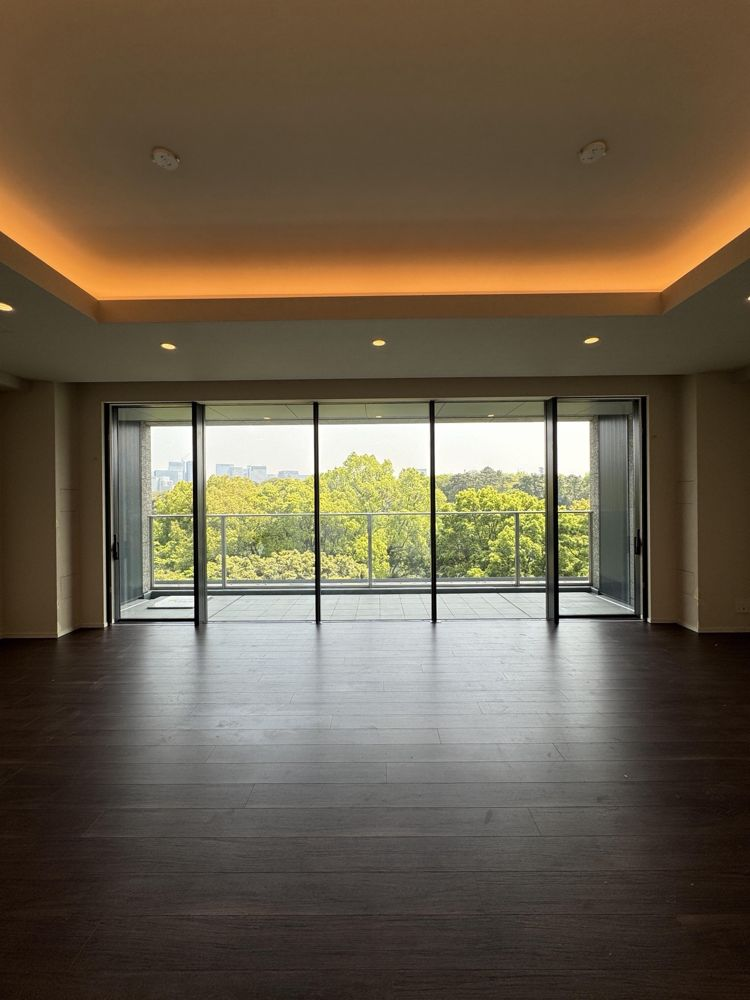
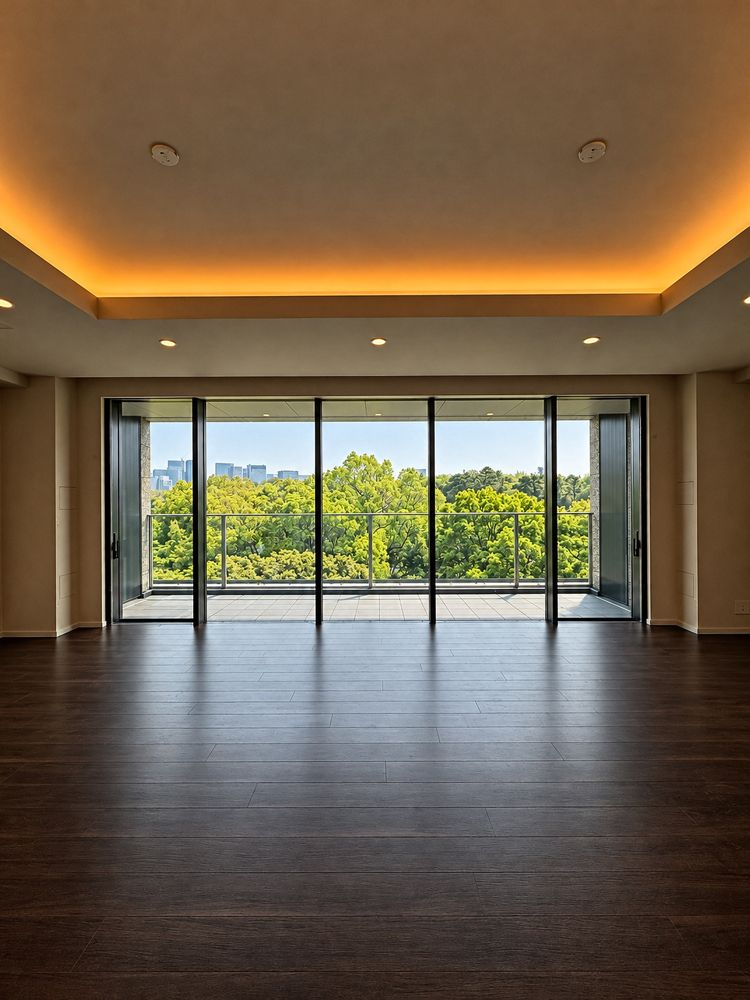
Hero: exterior view from the regenerated photo (clear sky), cleaner inpainting
Claude-Session: https://claude.ai/code/session_01LCqRGCmkTvX3q8iQxDLF2M

diff --git a/site/hero3d.js b/site/hero3d.js
@@ -8,7 +8,7 @@ try { renderer = new THREE.WebGLRenderer({ canvas: cv, antialias: true, alpha: f
 if (renderer) {
   renderer.outputColorSpace = THREE.SRGBColorSpace;
   renderer.toneMapping = THREE.ACESFilmicToneMapping; renderer.toneMappingExposure = 1.15;
-  const scene = new THREE.Scene(); scene.background = new THREE.Color(0xf0f0ec);
+  const scene = new THREE.Scene(); scene.background = new THREE.Color(0xcfe8fb);
   scene.add(buildRoom());
 
   // lighting: cool daylight from the window, warm cove light, soft fill
@@ -23,10 +23,10 @@ if (renderer) {
 
   // exterior: a pre-rendered image of the view (railing and mullions removed), hung far outside the window
   const tr = new THREE.TextureLoader().load('img/trees.jpg'); tr.colorSpace = THREE.SRGBColorSpace;
-  const D = 45, pxW = 1691 * (830 + 520) / (830 + 520) , pxH = 315;   // crop size in photo px (1500-wide space)
-  const view = new THREE.Mesh(new THREE.PlaneGeometry(((830 + 520) / 1445) * D, (pxH / 1445) * D), new THREE.MeshBasicMaterial({ map: tr, toneMapped: false }));
-  view.position.set(((330 + 1160) / 2 - 750) * D / 1445, (1000 - (850 + 1165) / 2) * D / 1445, -D); scene.add(view);
-  const skyBox = new THREE.Mesh(new THREE.PlaneGeometry(400, 200), new THREE.MeshBasicMaterial({ color: 0xf0f0ec, toneMapped: false })); skyBox.position.set(0, 20, -D - 1); scene.add(skyBox);
+  const D = 45, pxH = 420;   // crop height in photo px (1500-wide space)
+  const view = new THREE.Mesh(new THREE.PlaneGeometry(((804 + 520) / 1445) * D, (pxH / 1445) * D), new THREE.MeshBasicMaterial({ map: tr, toneMapped: false }));
+  view.position.set(((356 + 1160) / 2 - 750) * D / 1445, (1000 - (850 + 1270) / 2) * D / 1445, -D); scene.add(view);
+  const skyBox = new THREE.Mesh(new THREE.PlaneGeometry(400, 200), new THREE.MeshBasicMaterial({ color: 0xcfe8fb, toneMapped: false })); skyBox.position.set(0, 20, -D - 1); scene.add(skyBox);
 
   const cam = new THREE.PerspectiveCamera(32, 1, .05, 200); cam.position.set(0, 0, 0);
   const resize = () => { const w = innerWidth, h = innerHeight; renderer.setPixelRatio(Math.min(devicePixelRatio || 1, 2)); renderer.setSize(w, h, false);
